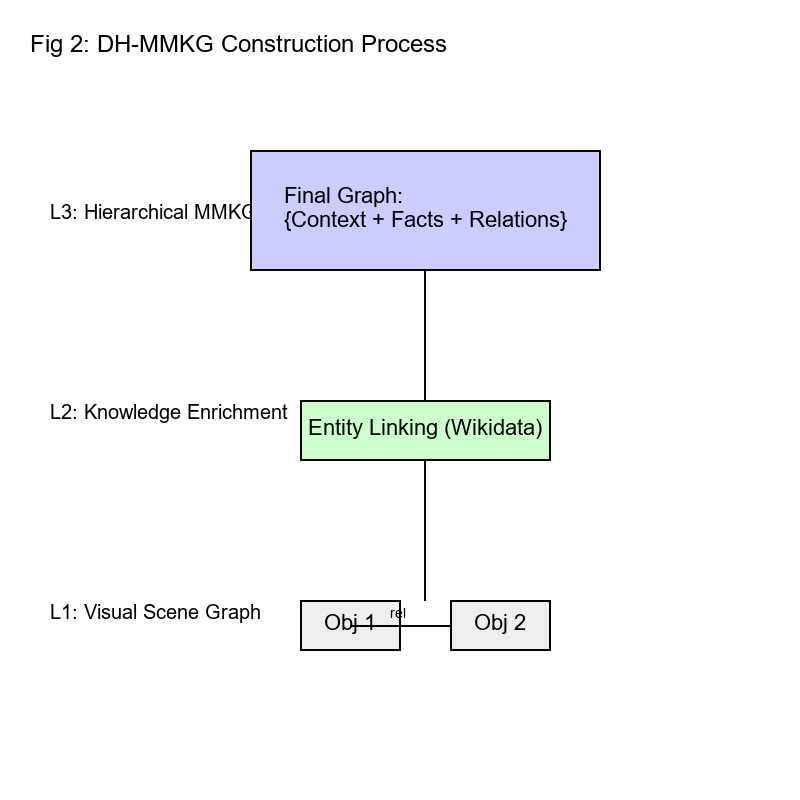
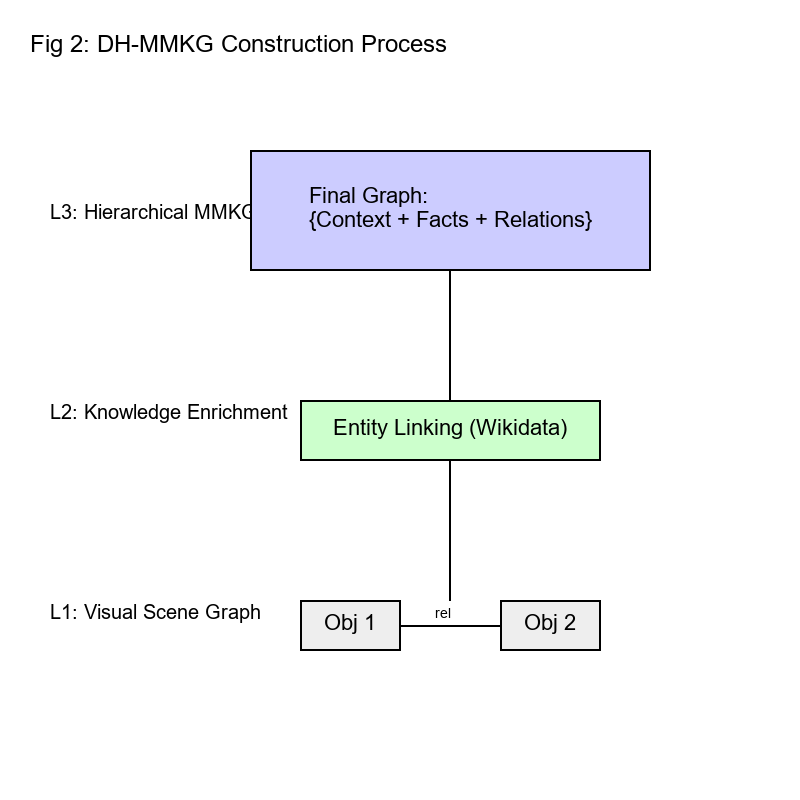
Fix text overlap in DH-MMKG system diagram

Changed region(s): [[0.3438, 0.1875, 0.8125, 0.3438], [0.375, 0.5, 0.75, 0.5938], [0.5312, 0.75, 0.75, 0.8125]]

diff --git a/generate_method_diagrams.py b/generate_method_diagrams.py
@@ -86,23 +86,23 @@ def generate_dh_mmkg_process():
     # Layer 1
     draw.text((50, 600), "L1: Visual Scene Graph", fill="black", font=get_font(20))
     draw_box(draw, 300, 600, 100, 50, "Obj 1", color="#eeeeee")
-    draw_box(draw, 450, 600, 100, 50, "Obj 2", color="#eeeeee")
-    draw.line([(350, 625), (450, 625)], fill="black", width=2)
-    draw.text((390, 605), "rel", fill="black", font=get_font(14))
+    draw_box(draw, 500, 600, 100, 50, "Obj 2", color="#eeeeee")
+    draw.line([(400, 625), (500, 625)], fill="black", width=2)
+    draw.text((435, 605), "rel", fill="black", font=get_font(14))
 
     # Arrow Up
-    draw_arrow(draw, (425, 600), (425, 450))
+    draw_arrow(draw, (450, 600), (450, 450))
 
     # Layer 2
     draw.text((50, 400), "L2: Knowledge Enrichment", fill="black", font=get_font(20))
-    draw_box(draw, 300, 400, 250, 60, "Entity Linking (Wikidata)", color="#ccffcc")
+    draw_box(draw, 300, 400, 300, 60, "Entity Linking (Wikidata)", color="#ccffcc")
     
     # Arrow Up
-    draw_arrow(draw, (425, 400), (425, 250))
+    draw_arrow(draw, (450, 400), (450, 250))
 
     # Layer 3
     draw.text((50, 200), "L3: Hierarchical MMKG", fill="black", font=get_font(20))
-    draw_box(draw, 250, 150, 350, 120, "Final Graph:\n{Context + Facts + Relations}", color="#ccccff")
+    draw_box(draw, 250, 150, 400, 120, "Final Graph:\n{Context + Facts + Relations}", color="#ccccff")
 
     img.save("manuscript/figures/dh_mmkg_process.png")
     print("Generated dh_mmkg_process.png")
